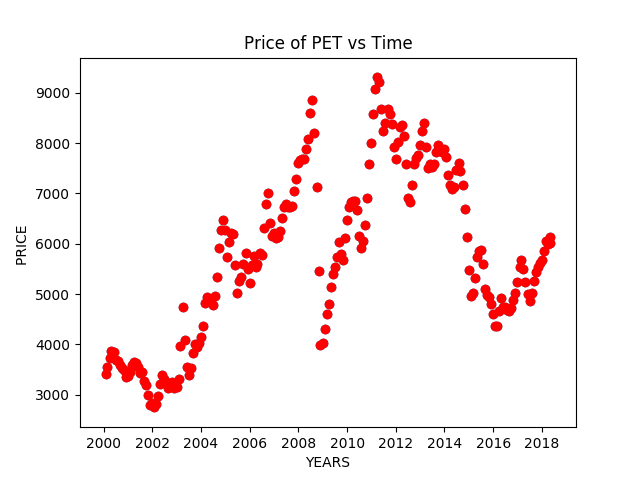
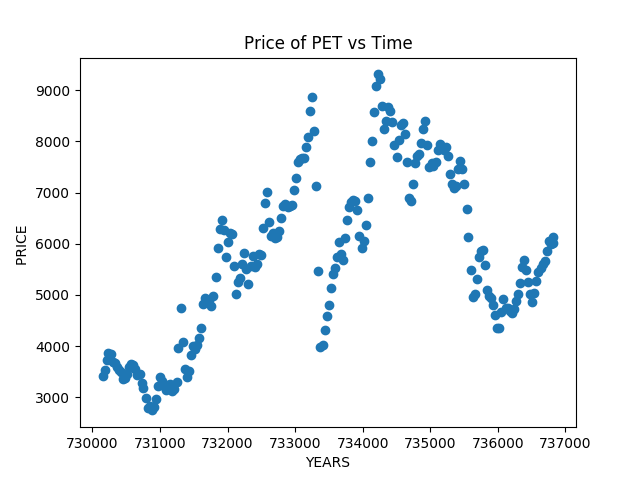
3oct18

diff --git a/abi/ab_analysis.py b/abi/ab_analysis.py
@@ -48,7 +48,7 @@ class ABB(object):
         dates = matplotlib.dates.date2num(dataset.iloc[:,0])
 
         plt.plot_date(dates, dataset["price"],color="red")
-        plt.scatter(dates, dataset["price"])
+        plt.plot(dates, dataset["price"])
         ax.set_xlabel("YEARS")
         ax.set_ylabel("PRICE ")
         ax.set_title("Price of PET vs Time")
@@ -60,4 +60,4 @@ class ABB(object):
 if __name__=="__main__":
     obj = ABB()
     dataset1 = obj.read_data1("")
-    obj.plot_time_data(dataset)
+    obj.plot_time_data(dataset1)
